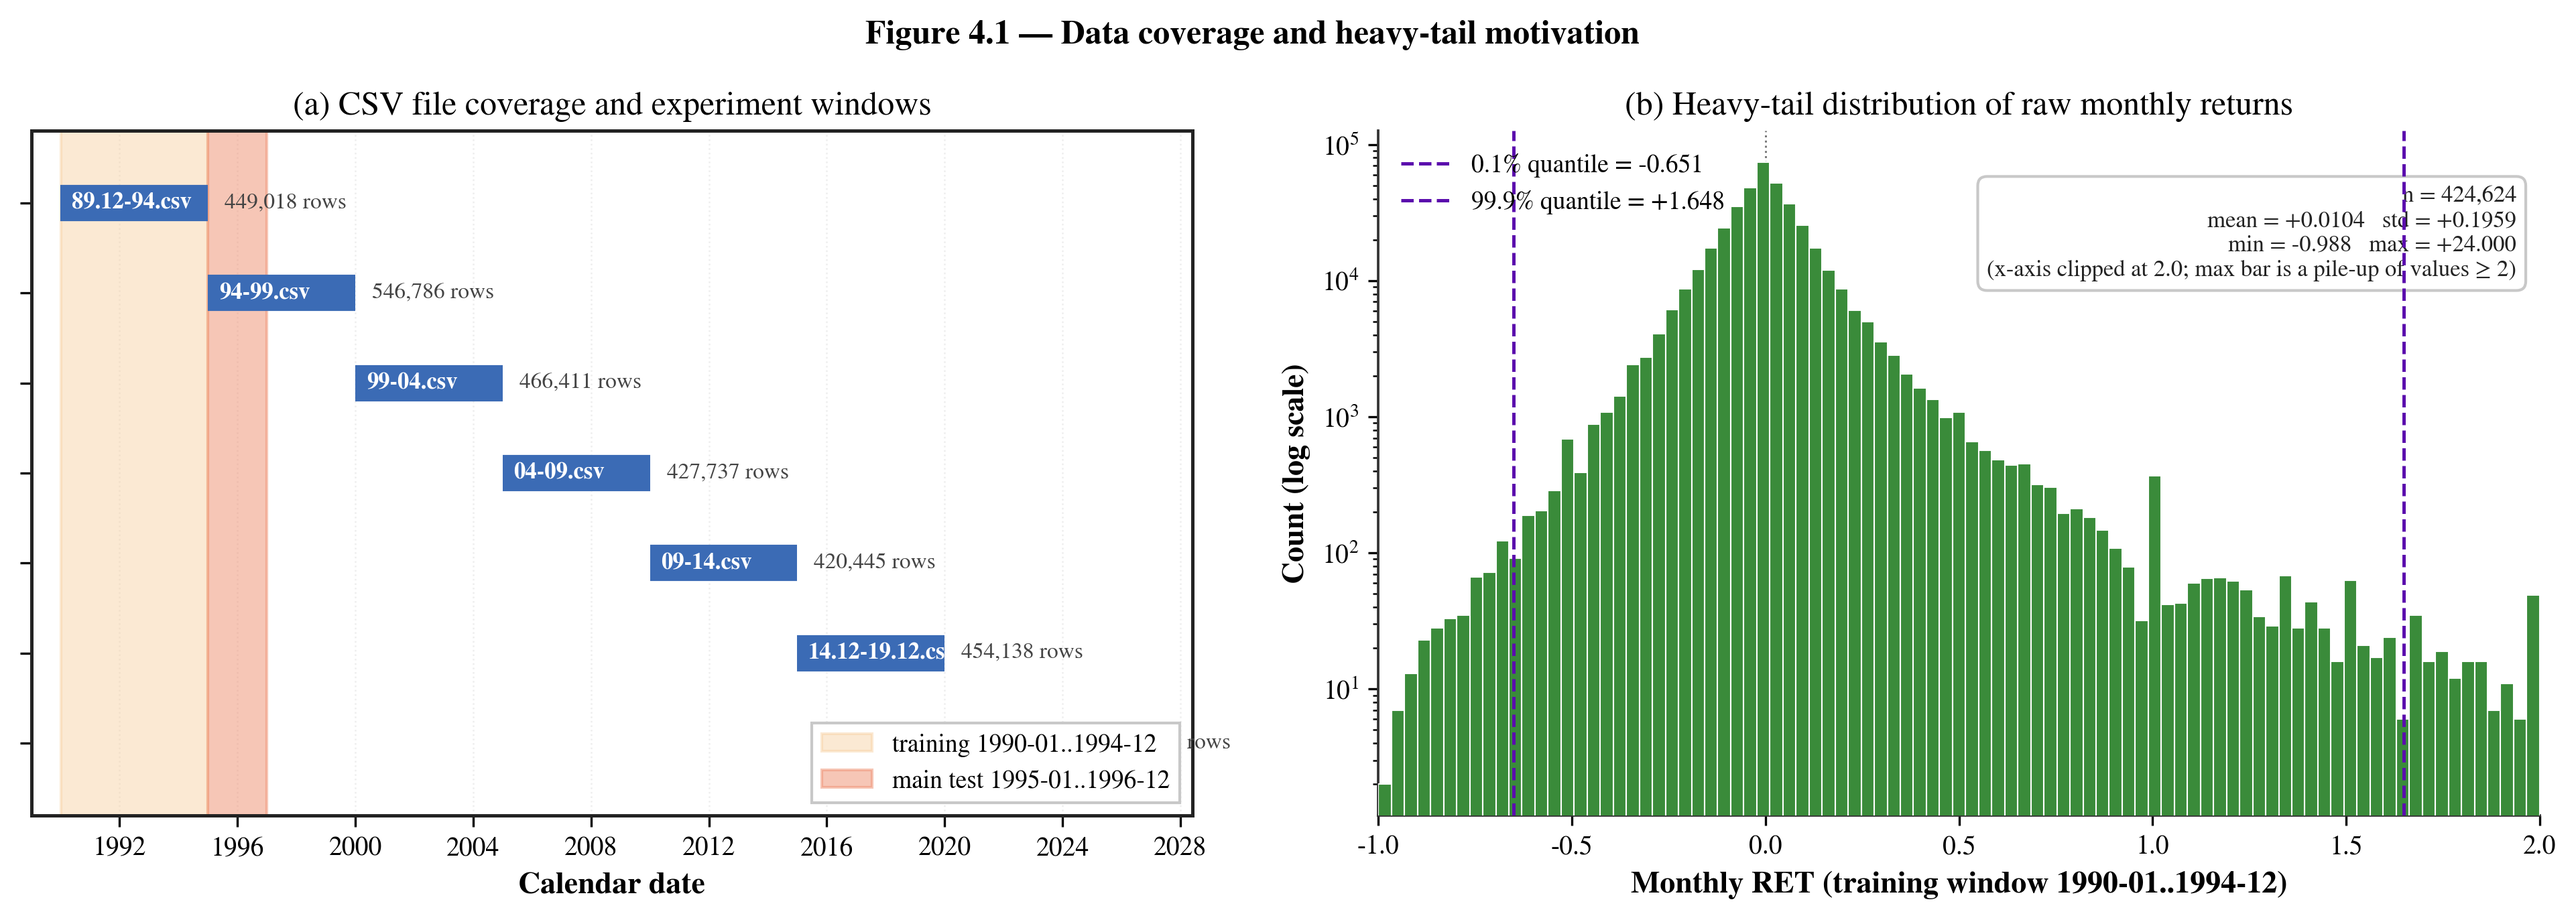
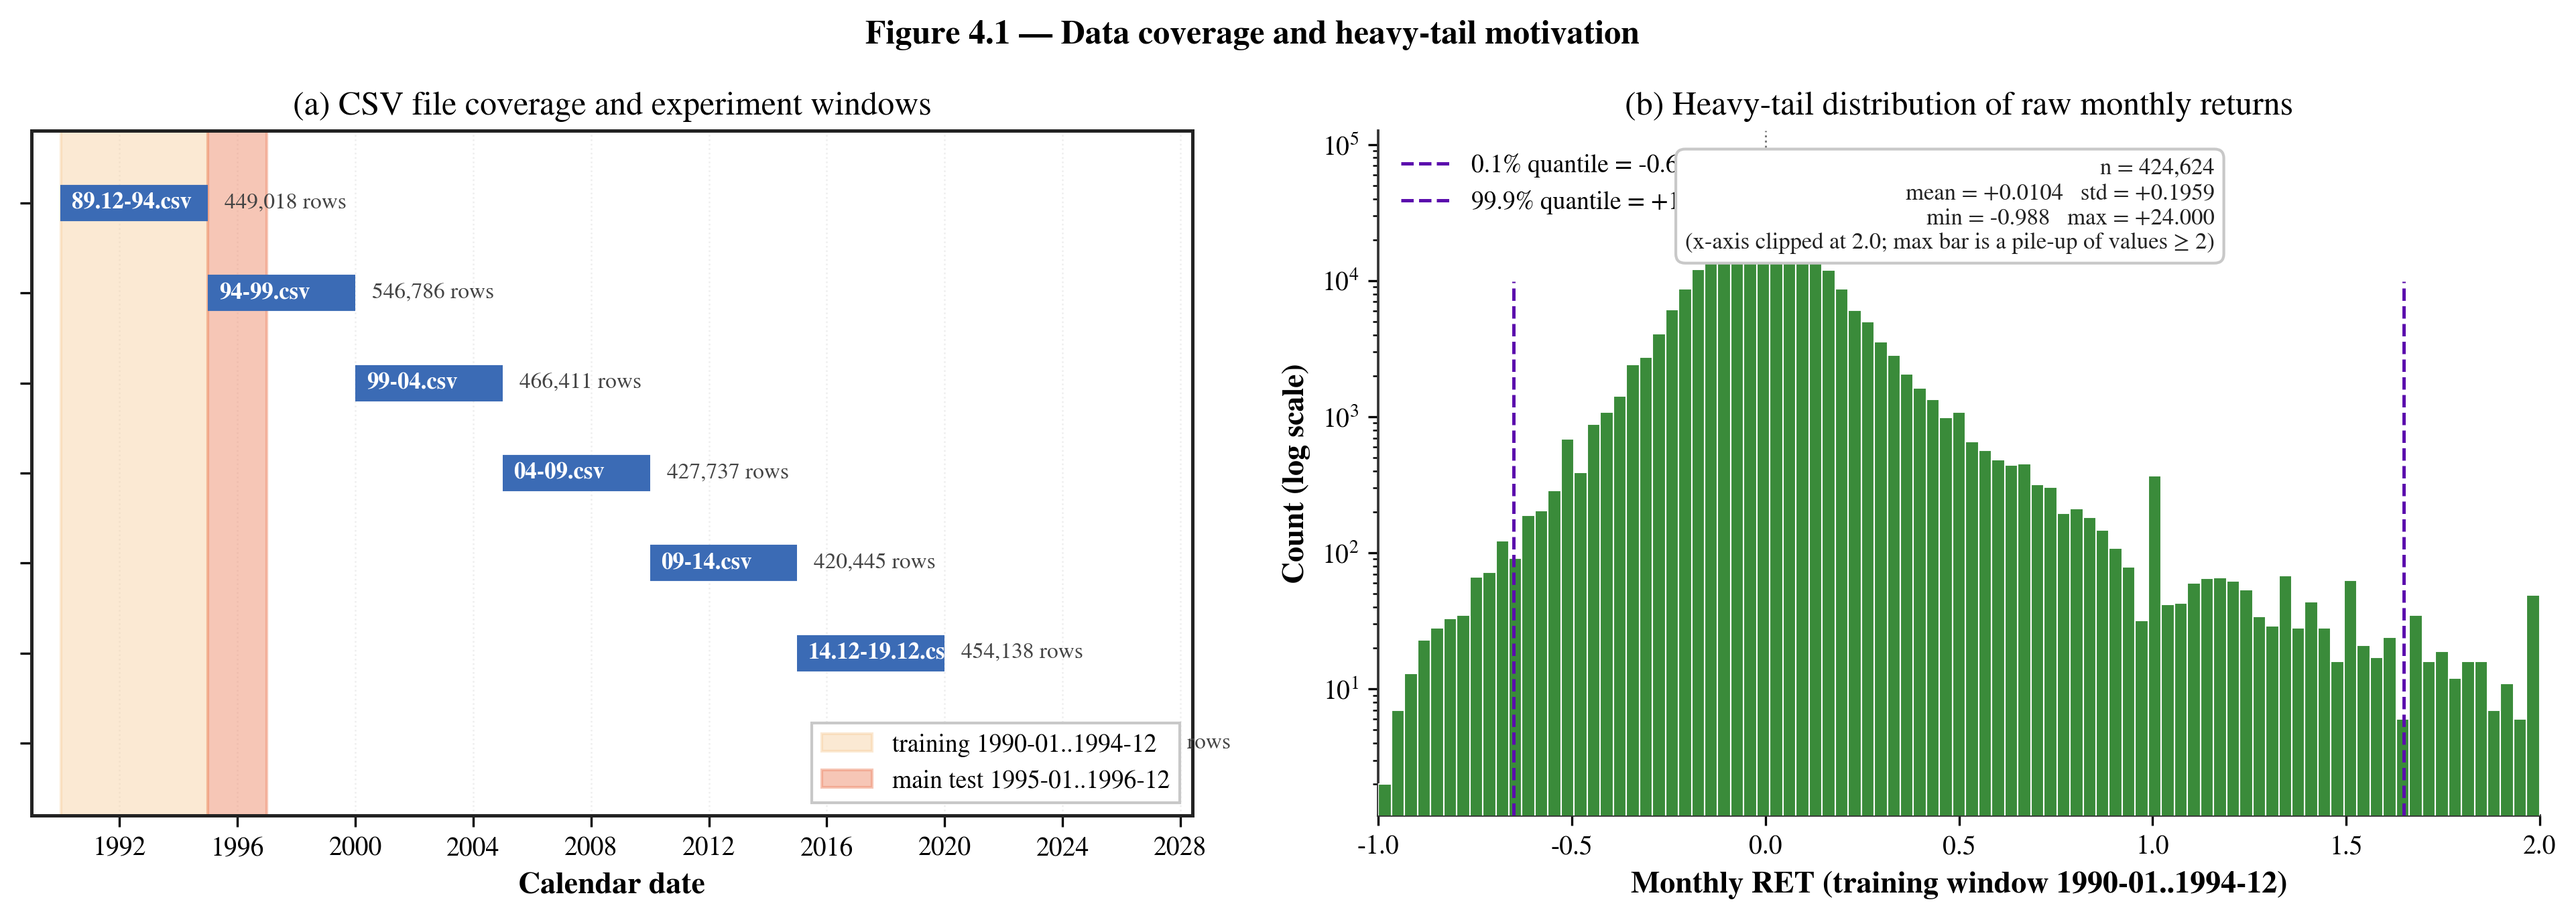
paper: Fig 4.1 (b) - shorten quantile lines to ymax=0.78 and move stats box leftward to clear right line

Changed region(s): [[0.6557, 0.1529, 0.9992, 0.3365]]

diff --git a/paper/figures/plot_data_coverage.py b/paper/figures/plot_data_coverage.py
@@ -155,16 +155,19 @@ def draw_histogram(ax, ret: pd.Series) -> None:
     )
 
     ax.set_yscale("log")
-    ax.axvline(q_lo, color=C_DYN, linestyle="--", linewidth=1.2, zorder=4,
+    # Shortened quantile lines: stop at 78% of axes height so they do not
+    # intersect the upper-left quantile legend or the upper-right stats box.
+    ax.axvline(q_lo, color=C_DYN, linestyle="--", linewidth=1.2, ymax=0.78, zorder=4,
                label=f"0.1% quantile = {q_lo:+.3f}")
-    ax.axvline(q_hi, color=C_DYN, linestyle="--", linewidth=1.2, zorder=4,
+    ax.axvline(q_hi, color=C_DYN, linestyle="--", linewidth=1.2, ymax=0.78, zorder=4,
                label=f"99.9% quantile = {q_hi:+.3f}")
     ax.axvline(0, color="#777", linewidth=0.7, linestyle=":", zorder=2)
 
-    # Stats box anchored at upper-right (away from the peak near RET=0).
+    # Stats box moved inward so its right edge does not cross the right
+    # quantile line (at axes x ≈ 0.88).
     ax.text(
-        0.98,
-        0.92,
+        0.72,
+        0.96,
         f"n = {len(vals):,}\n"
         f"mean = {vals.mean():+.4f}   std = {vals.std():+.4f}\n"
         f"min = {vals.min():+.3f}   max = {vals.max():+.3f}\n"
@@ -175,6 +178,7 @@ def draw_histogram(ax, ret: pd.Series) -> None:
         ha="right",
         color="#222",
         bbox=dict(facecolor="white", edgecolor="#C8C8C8", boxstyle="round,pad=0.4"),
+        zorder=6,
     )
 
     ax.set_xlim(-1.0, 2.0)
